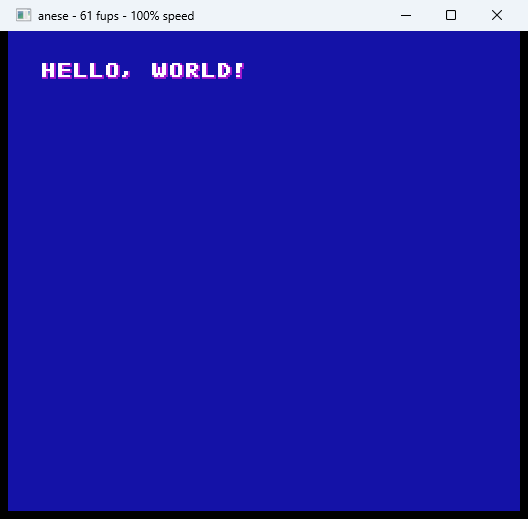
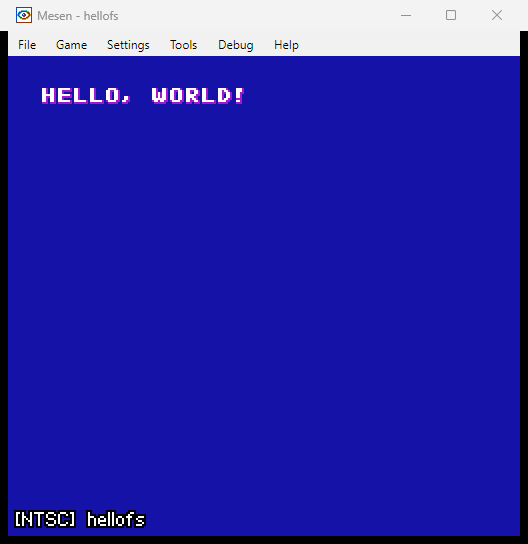
Update all sample screenshots and GIFs using Mesen (#404)
* Update all sample screenshots and GIFs using Mesen

Re-captured all 46 samples (8 PNGs, 38 GIFs) using the Mesen emulator
via record-all-samples.cs. The 'unknown' sample was skipped (decompiled
ROM that doesn't launch in the emulator).

* Add more samples to README gallery, update PNGs to GIFs

Expanded gallery from 19 to 32 samples. Updated 5 entries that had
static PNGs to use their new animated GIFs (procgen, snake, siegegame,
monobitmap, music). Added 13 new entries: scoreboard, bigsprites,
scroll, slideshow, conio, metacursor, metatrigger, horizmask, battery,
irq, tileset1, hello, tint.

* Replace battery with peekpoke in README gallery

battery is a SRAM counter demo that looks identical to climber
with the generic tileset. peekpoke is more visually distinctive.

* Re-record battery.gif (was showing climber due to stale window)

---------

Changed region(s): [[0.0, 0.0, 1.0, 0.2158], [0.0303, 0.9249, 0.303, 0.9865]]

diff --git a/README.md b/README.md
@@ -13,23 +13,35 @@
 | **shoot2** ⬇ | **pong** ⬇ |
 | ![shoot2](samples/shoot2/shoot2.gif) | ![pong](samples/pong/pong.gif) |
 | **climber** ⬇ | **procgen** ⬇ |
-| ![climber](samples/climber/climber.gif) | ![procgen](samples/procgen/procgen.png) |
+| ![climber](samples/climber/climber.gif) | ![procgen](samples/procgen/procgen.gif) |
 | **snake** ⬇ | **siegegame** ⬇ |
-| ![snake](samples/snake/snake.png) | ![siegegame](samples/siegegame/siegegame.png) |
+| ![snake](samples/snake/snake.gif) | ![siegegame](samples/siegegame/siegegame.gif) |
 | **metasprites** ⬇ | **animation** ⬇ |
 | ![metasprites](samples/metasprites/metasprites.gif) | ![animation](samples/animation/animation.gif) |
+| **scoreboard** ⬇ | **bigsprites** ⬇ |
+| ![scoreboard](samples/scoreboard/scoreboard.gif) | ![bigsprites](samples/bigsprites/bigsprites.gif) |
 | **sprites** ⬇ | **horizscroll** ⬇ |
 | ![sprites](samples/sprites/sprites.gif) | ![horizscroll](samples/horizscroll/horizscroll.gif) |
-| **vertscroll** ⬇ | **fade** ⬇ |
-| ![vertscroll](samples/vertscroll/vertscroll.gif) | ![fade](samples/fade/fade.gif) |
+| **vertscroll** ⬇ | **scroll** ⬇ |
+| ![vertscroll](samples/vertscroll/vertscroll.gif) | ![scroll](samples/scroll/scroll.gif) |
+| **fade** ⬇ | **slideshow** ⬇ |
+| ![fade](samples/fade/fade.gif) | ![slideshow](samples/slideshow/slideshow.gif) |
 | **monobitmap** ⬇ | **music** ⬇ |
-| ![monobitmap](samples/monobitmap/monobitmap.png) | ![music](samples/music/music.png) |
-| **fami** ⬇ | **rletitle** ⬇ |
-| ![fami](samples/fami/fami.gif) | ![rletitle](samples/rletitle/rletitle.png) |
-| **attributetable** ⬇ | **flicker** ⬇ |
-| ![attributetable](samples/attributetable/attributetable.png) | ![flicker](samples/flicker/flicker.gif) |
-| **statusbar** ⬇ | |
-| ![statusbar](samples/statusbar/statusbar.gif) | |
+| ![monobitmap](samples/monobitmap/monobitmap.gif) | ![music](samples/music/music.gif) |
+| **fami** ⬇ | **conio** ⬇ |
+| ![fami](samples/fami/fami.gif) | ![conio](samples/conio/conio.gif) |
+| **metacursor** ⬇ | **metatrigger** ⬇ |
+| ![metacursor](samples/metacursor/metacursor.gif) | ![metatrigger](samples/metatrigger/metatrigger.gif) |
+| **horizmask** ⬇ | **statusbar** ⬇ |
+| ![horizmask](samples/horizmask/horizmask.gif) | ![statusbar](samples/statusbar/statusbar.gif) |
+| **peekpoke** ⬇ | **irq** ⬇ |
+| ![peekpoke](samples/peekpoke/peekpoke.gif) | ![irq](samples/irq/irq.gif) |
+| **rletitle** ⬇ | **attributetable** ⬇ |
+| ![rletitle](samples/rletitle/rletitle.png) | ![attributetable](samples/attributetable/attributetable.png) |
+| **tileset1** ⬇ | **hello** ⬇ |
+| ![tileset1](samples/tileset1/tileset1.png) | ![hello](samples/hello/hello.png) |
+| **tint** ⬇ | **flicker** ⬇ |
+| ![tint](samples/tint/tint.png) | ![flicker](samples/flicker/flicker.gif) |
 
 > See the [samples/](samples/) folder for all 46 sample projects. Generate images with `dotnet run scripts/record-all-samples.cs`.
 
